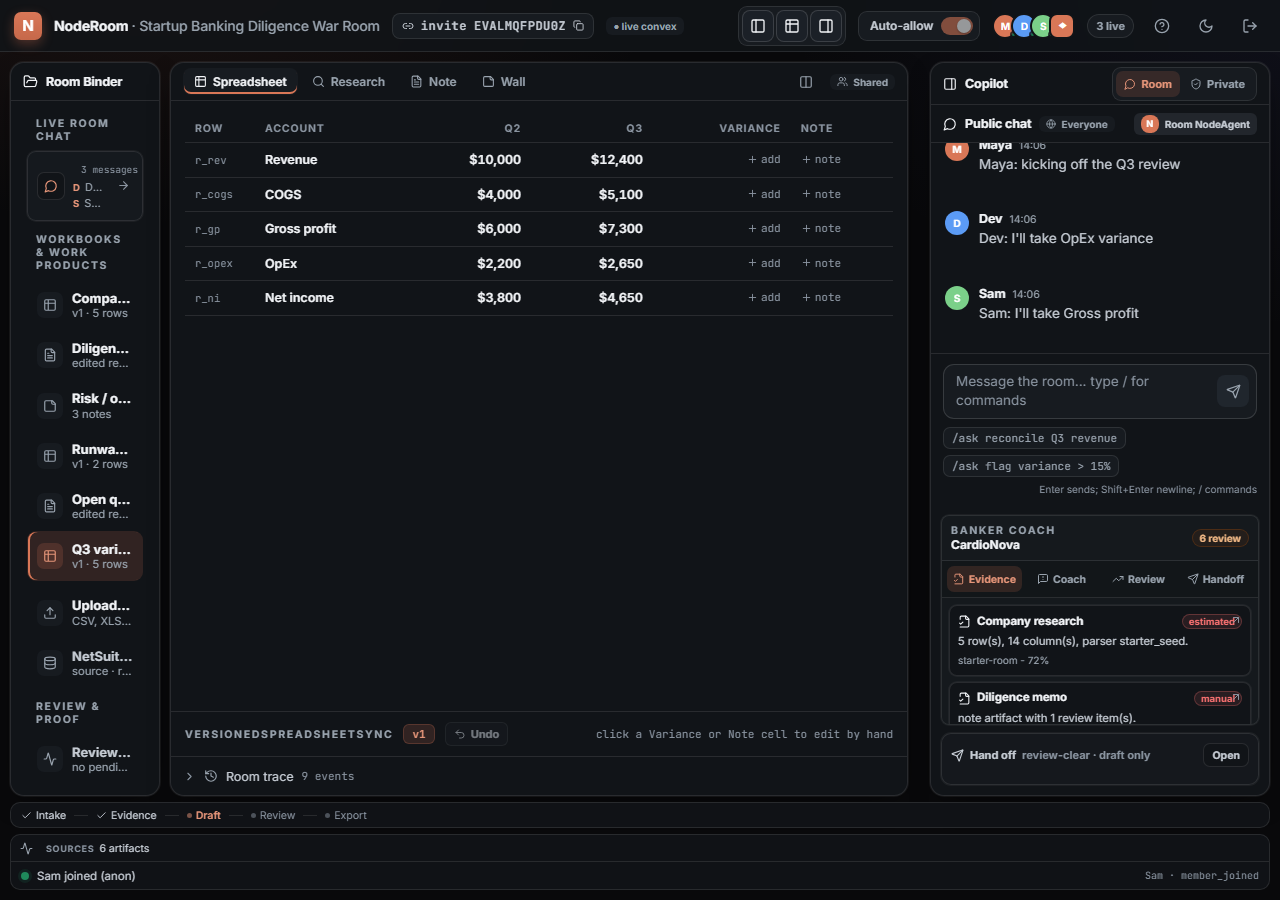
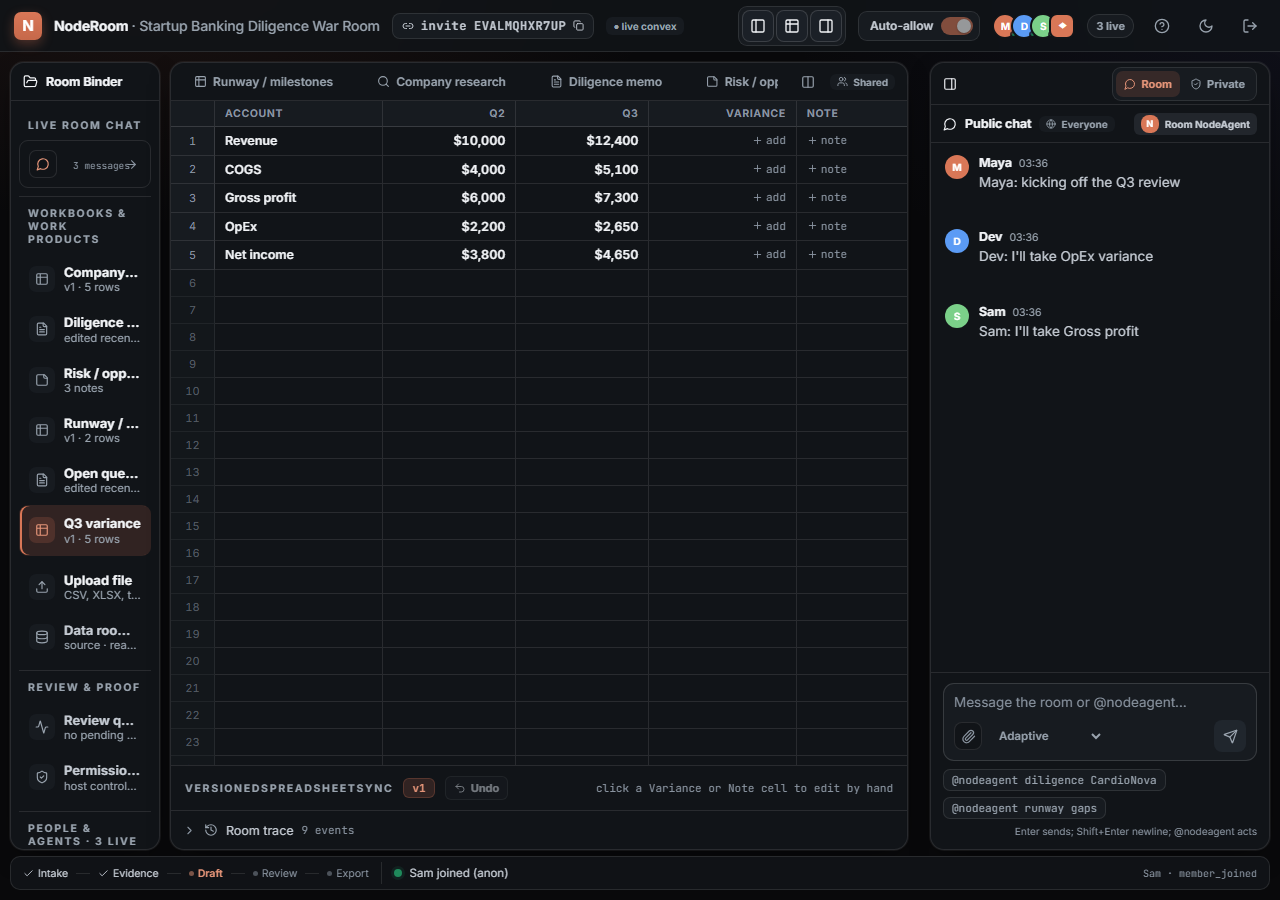
prod: harden provider env reads
Changes:

- Trim provider env values before constructing OpenRouter SDK clients and free-model discovery requests.

- Trim OpenAI, OpenRouter, Anthropic, and Gemini env values in the Convex-safe NodeAgent provider path before headers or URLs are built.

- Trim private streaming provider env values, including optional OpenRouter base URL.

- Trim OKF embedding provider keys and model env values before OpenAI/Gemini embedding calls.

- Trim OpenRouter env values in the provider-parser live adapter.

- Refresh tracked three-user walkthrough screenshots from the prod-backed live-agent browser gate.

Verification:

- npx tsc --noEmit --project convex/tsconfig.json --pretty false

- npm run typecheck -- --pretty false

- npm run nodeagent:frame:smoke

- npm run omnigent:nodeagent:smoke

- npm test -- --run tests/capturePipeline.test.ts tests/okfRetrieval.test.ts tests/frameRunner.test.ts

- npx convex deploy --deployment prod:aromatic-bass-102 equivalent via CONVEX_DEPLOYMENT

- npm run test:product:live against https://aromatic-bass-102.convex.cloud: 18/18

- npm run test:product:live:agent against https://aromatic-bass-102.convex.cloud: 18/19 plus rerun of the timed-out Excel spec passed

- Direct prod Firecrawl capture smoke: ok=true, one persisted capture_source record

- Direct prod SEC facts smoke: ok=true, one persisted sec_facts record

- npm run build

diff --git a/convex/okfEmbeddingProvider.ts b/convex/okfEmbeddingProvider.ts
@@ -18,14 +18,15 @@ export interface OkfEmbeddingOptions {
 export async function embedOkfText(text: string, taskType: "RETRIEVAL_DOCUMENT" | "RETRIEVAL_QUERY" = "RETRIEVAL_DOCUMENT", options: OkfEmbeddingOptions = {}): Promise<OkfEmbeddingResult> {
   const env = options.env ?? process.env;
   const artifacts = options.artifacts ?? [];
-  const preferred = (env.OKF_EMBED_PROVIDER ?? "").toLowerCase();
-  if ((preferred === "openai" || preferred === "") && env.OPENAI_API_KEY) {
-    const model = env.OKF_OPENAI_EMBED_MODEL ?? "text-embedding-3-small";
+  const preferred = (envValue(env, "OKF_EMBED_PROVIDER") ?? "").toLowerCase();
+  const openaiKey = envValue(env, "OPENAI_API_KEY");
+  if ((preferred === "openai" || preferred === "") && openaiKey) {
+    const model = envValue(env, "OKF_OPENAI_EMBED_MODEL") ?? "text-embedding-3-small";
     if (!canUseExternalEmbedding(model, artifacts, env)) return localEmbedding(text);
     const res = await fetch("https://api.openai.com/v1/embeddings", {
       method: "POST",
       headers: {
-        authorization: `Bearer ${env.OPENAI_API_KEY}`,
+        authorization: `Bearer ${openaiKey}`,
         "content-type": "application/json",
       },
       body: JSON.stringify({ model, input: text, dimensions: OKF_EMBEDDING_DIMENSION }),
@@ -37,9 +38,9 @@ export async function embedOkfText(text: string, taskType: "RETRIEVAL_DOCUMENT" 
     return { provider: "openai", model, vector: normalizeDimension(values) };
   }
 
-  const geminiKey = env.GOOGLE_GENERATIVE_AI_API_KEY ?? env.GEMINI_API_KEY;
+  const geminiKey = envValue(env, "GOOGLE_GENERATIVE_AI_API_KEY") ?? envValue(env, "GEMINI_API_KEY");
   if ((preferred === "gemini" || preferred === "") && geminiKey) {
-    const model = env.OKF_GEMINI_EMBED_MODEL ?? "gemini-embedding-2";
+    const model = envValue(env, "OKF_GEMINI_EMBED_MODEL") ?? "gemini-embedding-2";
     if (!canUseExternalEmbedding(model, artifacts, env)) return localEmbedding(text);
     const res = await fetch(`https://generativelanguage.googleapis.com/v1beta/models/${encodeURIComponent(model)}:embedContent?key=${encodeURIComponent(geminiKey)}`, {
       method: "POST",
@@ -58,6 +59,11 @@ export async function embedOkfText(text: string, taskType: "RETRIEVAL_DOCUMENT" 
   }
 
   return localEmbedding(text);
+}
+
+function envValue(env: Env, name: string): string | undefined {
+  const value = env[name]?.trim();
+  return value || undefined;
 }
 
 function canUseExternalEmbedding(model: string, artifacts: ProviderEgressArtifact[], env: Env): boolean {

diff --git a/src/nodeagent/models/convexModel.ts b/src/nodeagent/models/convexModel.ts
@@ -125,7 +125,7 @@ async function generateConvexAgentStep(
         return {
           step: withProviderRoute(await withRetry(() => openAiCompatibleStep({
             endpoint: `${openRouterBaseUrl()}/chat/completions`,
-            apiKey: process.env.OPENROUTER_API_KEY,
+            apiKey: envValue("OPENROUTER_API_KEY"),
             headers: openRouterHeaders(),
             modelId: candidate.id,
             system,
@@ -171,7 +171,7 @@ async function providerStep(
   if (provider === "openai") {
     return openAiCompatibleStep({
       endpoint: "https://api.openai.com/v1/chat/completions",
-      apiKey: process.env.OPENAI_API_KEY,
+      apiKey: requireEnv("OPENAI_API_KEY"),
       headers: {},
       modelId,
       system,
@@ -183,7 +183,7 @@ async function providerStep(
   if (provider === "openrouter") {
     return openAiCompatibleStep({
       endpoint: `${openRouterBaseUrl()}/chat/completions`,
-      apiKey: process.env.OPENROUTER_API_KEY,
+      apiKey: envValue("OPENROUTER_API_KEY"),
       headers: openRouterHeaders(),
       modelId,
       system,
@@ -515,13 +515,13 @@ function parseJsonObject(text: string, fallback: JsonObject = {}): JsonObject {
 }
 
 function requireEnv(name: string): string {
-  const value = process.env[name];
+  const value = envValue(name);
   if (!value) throw new Error(`${name} is required for convexModel provider calls`);
   return value;
 }
 
 function openRouterBaseUrl(): string {
-  return process.env.OPENROUTER_BASE_URL ?? "https://openrouter.ai/api/v1";
+  return envValue("OPENROUTER_BASE_URL") ?? "https://openrouter.ai/api/v1";
 }
 
 function openRouterHeaders(): Record<string, string> {
@@ -537,8 +537,13 @@ function fallbackModelFor(modelId: string): string | undefined {
 }
 
 function openRouterFreeAutoLimit(): number {
-  const raw = Number(process.env.OPENROUTER_FREE_AUTO_LIMIT ?? 8);
+  const raw = Number(envValue("OPENROUTER_FREE_AUTO_LIMIT") ?? 8);
   return Number.isFinite(raw) ? Math.max(1, Math.min(20, raw)) : 8;
+}
+
+function envValue(name: string): string | undefined {
+  const value = process.env[name]?.trim();
+  return value || undefined;
 }
 
 function withProviderRoute<T extends AgentStep>(step: T, providerRoute: ProviderRouteReceipt): T & { providerRoute: ProviderRouteReceipt } {

diff --git a/src/nodeagent/models/adapter.ts b/src/nodeagent/models/adapter.ts
@@ -27,8 +27,8 @@ import { assertProviderEgressAllowed, assertProviderRouteAllowed, type ProviderE
 // Built lazily (per call) so process.env.OPENROUTER_API_KEY is read AFTER .env.local loads —
 // the direct providers already read their key lazily; this matches them.
 const openrouter = () => createOpenAI({
-  apiKey: process.env.OPENROUTER_API_KEY,
-  baseURL: process.env.OPENROUTER_BASE_URL ?? "https://openrouter.ai/api/v1",
+  apiKey: envValue("OPENROUTER_API_KEY"),
+  baseURL: envValue("OPENROUTER_BASE_URL") ?? "https://openrouter.ai/api/v1",
   headers: { "HTTP-Referer": "https://noderoom.local", "X-Title": "NodeRoom benchmark" },
 });
 
@@ -194,16 +194,23 @@ async function generatePromptText(modelId: string, prompt: string): Promise<Gene
 }
 
 function openRouterFreeAutoLimit(): number {
-  const raw = Number(process.env.OPENROUTER_FREE_AUTO_LIMIT ?? 8);
+  const raw = Number(envValue("OPENROUTER_FREE_AUTO_LIMIT") ?? 8);
   return Number.isFinite(raw) ? Math.max(1, Math.min(20, raw)) : 8;
 }
 
 function shortProviderError(error: unknown): string {
   let message = error instanceof Error ? error.message : String(error);
   for (const value of Object.values(process.env)) {
+    const trimmed = value?.trim();
+    if (trimmed && trimmed.length > 12) message = message.replaceAll(trimmed, "[redacted]");
     if (value && value.length > 12) message = message.replaceAll(value, "[redacted]");
   }
   return message.replace(/\s+/g, " ").slice(0, 240);
+}
+
+function envValue(name: string): string | undefined {
+  const value = process.env[name]?.trim();
+  return value || undefined;
 }
 
 function toSdkMessages(messages: AgentMessage[]): ModelMessage[] {

diff --git a/src/nodeagent/models/openRouterFreeModels.ts b/src/nodeagent/models/openRouterFreeModels.ts
@@ -118,12 +118,12 @@ export async function discoverOpenRouterFreeModels(options: {
   signal?: AbortSignal;
 } = {}): Promise<OpenRouterModelInfo[]> {
   const now = options.now ?? Date.now();
-  const ttlMs = options.ttlMs ?? Number(process.env.OPENROUTER_FREE_MODEL_CACHE_MS || 10 * 60 * 1000);
+  const ttlMs = options.ttlMs ?? Number(envValue("OPENROUTER_FREE_MODEL_CACHE_MS") || 10 * 60 * 1000);
   if (!options.forceRefresh && cachedModels && now - cachedModels.fetchedAt < ttlMs) return cachedModels.models;
 
   try {
     const fetchImpl = options.fetchImpl ?? fetch;
-    const res = await fetchImpl(`${process.env.OPENROUTER_BASE_URL ?? "https://openrouter.ai/api/v1"}/models?output_modalities=text`, {
+    const res = await fetchImpl(`${envValue("OPENROUTER_BASE_URL") ?? "https://openrouter.ai/api/v1"}/models?output_modalities=text`, {
       headers: openRouterHeaders(),
       signal: options.signal,
     });
@@ -268,6 +268,12 @@ function openRouterHeaders(): Record<string, string> {
     "HTTP-Referer": "https://noderoom.local",
     "X-Title": "NodeRoom free model discovery",
   };
-  if (process.env.OPENROUTER_API_KEY) headers.Authorization = `Bearer ${process.env.OPENROUTER_API_KEY}`;
+  const apiKey = envValue("OPENROUTER_API_KEY");
+  if (apiKey) headers.Authorization = `Bearer ${apiKey}`;
   return headers;
+}
+
+function envValue(name: string): string | undefined {
+  const value = process.env[name]?.trim();
+  return value || undefined;
 }

diff --git a/convex/streamingModel.ts b/convex/streamingModel.ts
@@ -15,9 +15,14 @@ export type StreamAppend = (text: string) => Promise<void>;
 const MAX_OUTPUT_TOKENS = 1024;
 
 function requireEnv(name: string): string {
-  const value = process.env[name];
+  const value = process.env[name]?.trim();
   if (!value) throw new Error(`missing env ${name}`);
   return value;
+}
+
+function optionalEnv(name: string): string | undefined {
+  const value = process.env[name]?.trim();
+  return value || undefined;
 }
 
 /** Stream the reply token-by-token into `append`; resolves with the full accumulated text. */
@@ -39,8 +44,9 @@ export async function streamPrivateReplyText(
   }
   // vendor/model ids (deepseek/…, anthropic/…, z-ai/…) ride OpenRouter's OpenAI-compatible SSE.
   if (route.provider !== "openrouter") throw new Error(`private_stream_provider_unsupported:${route.provider}`);
+  const openRouterBaseUrl = optionalEnv("OPENROUTER_BASE_URL") ?? "https://openrouter.ai/api/v1";
   return openAiCompatibleStream(
-    process.env.OPENROUTER_BASE_URL ? `${process.env.OPENROUTER_BASE_URL}/chat/completions` : "https://openrouter.ai/api/v1/chat/completions",
+    `${openRouterBaseUrl}/chat/completions`,
     requireEnv("OPENROUTER_API_KEY"),
     { "HTTP-Referer": "https://noderoom.live", "X-Title": "NodeRoom" },
     route.resolvedModel, safeSystem, safeUser, append,

diff --git a/src/nodeagent/models/providerParserLive.ts b/src/nodeagent/models/providerParserLive.ts
@@ -280,13 +280,18 @@ function providerLanguageModel(provider: ProviderParser, modelId: string): Langu
       return anthropic(modelId);
     case "openrouter":
       return createOpenAI({
-        apiKey: process.env.OPENROUTER_API_KEY,
-        baseURL: process.env.OPENROUTER_BASE_URL ?? "https://openrouter.ai/api/v1",
+        apiKey: envValue("OPENROUTER_API_KEY"),
+        baseURL: envValue("OPENROUTER_BASE_URL") ?? "https://openrouter.ai/api/v1",
         headers: { "HTTP-Referer": "https://noderoom.local", "X-Title": "NodeRoom provider parser" },
       }).chat(modelId);
     default:
       return assertNever(provider);
   }
+}
+
+function envValue(name: string): string | undefined {
+  const value = process.env[name]?.trim();
+  return value || undefined;
 }
 
 function buildExtractionPrompt(prompt: string, file: CanonicalFileRef, source?: ProviderParserSource): string {
